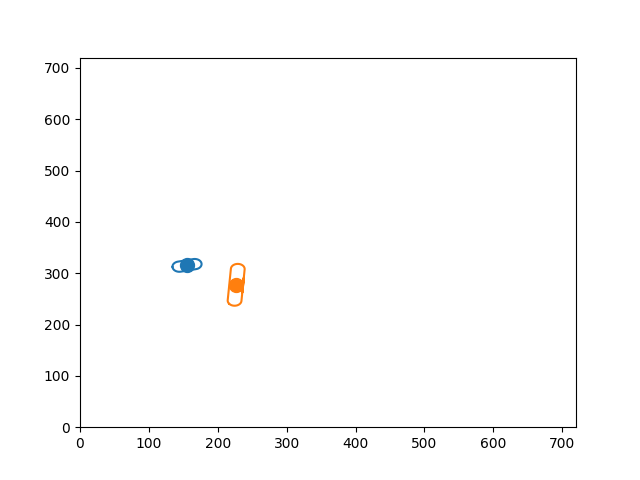
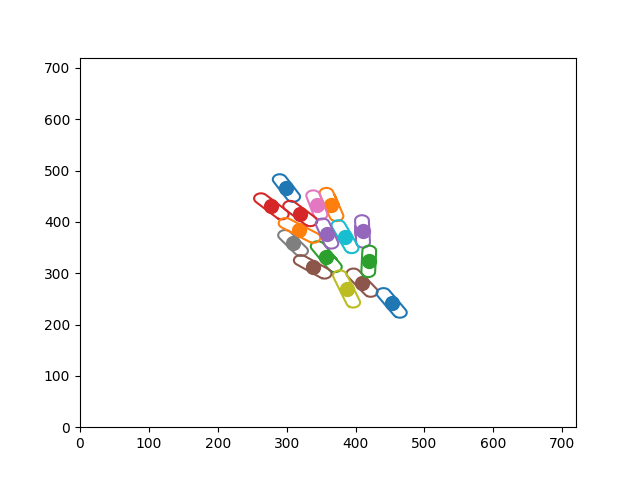
fixed cell class

Changed region(s): [[0.375, 0.375, 0.6562, 0.6562], [0.3438, 0.5312, 0.4062, 0.6562], [0.25, 0.5312, 0.3125, 0.5938]]

diff --git a/SYMPTOMM/cell.py b/SYMPTOMM/cell.py
@@ -16,7 +16,7 @@ class Cell:
         dt,
         growth_rate_constant,
         max_length_mean,
-        max_length_var
+        max_length_var,
     ):
         self.length = length
         self.width = width
@@ -33,7 +33,38 @@ class Cell:
 
 
     def create_pm_cell(self):
-        if self.is_dividing() == False:
+        if self.is_dividing() == True:
+            new_length = self.length/2
+            daughter_length = self.length - new_length
+            self.length = new_length
+            cell_vertices = self.calculate_vertex_list()
+            cell_shape = pymunk.Poly(None, cell_vertices)
+            self.shape = cell_shape
+            cell_moment = 1
+            cell_mass = 0.00001
+            cell_body = pymunk.Body(cell_mass,cell_moment)
+            cell_shape.body = cell_body
+            self.body = cell_body
+            new_x = self.position[0] + self.length/2 * np.cos(self.angle*2)
+            new_y = self.position[1] + self.length/2 * np.sin(self.angle*2)
+            self.body.position = [new_x, new_y]
+            cell_body.angle = self.angle
+            cell_shape.friction=1000
+            self.space.add(cell_body, cell_shape)
+            daughter_details = {
+                "length": daughter_length,
+                "width": self.width,
+                "resolution": self.resolution,
+                "position": [self.position[0] - self.length/2 * np.cos(self.angle*2), self.position[1] - self.length/2 * np.sin(self.angle*2)],
+                "angle": self.angle*np.random.uniform(0.85,1.15),
+                "space": self.space,
+                "dt": self.dt,
+                "growth_rate_constant": self.growth_rate_constant,
+                "max_length_mean": self.max_length_mean,
+                "max_length_var": self.max_length_var
+            }
+            return daughter_details
+        else:
             cell_vertices = self.calculate_vertex_list()
             cell_shape = pymunk.Poly(None, cell_vertices)
             self.shape = cell_shape
@@ -47,10 +78,8 @@ class Cell:
             cell_shape.friction=1000
             self.space.add(cell_body, cell_shape)
             return cell_body, cell_shape
-        if self.is_dividing() == True:
-            
 
-    def is_dividing(self):
+    def is_dividing(self): # This needs to be made constant or a cell can divide in one frame and not another frame
         if self.length > np.random.normal(self.max_length_mean, self.max_length_var):
             return True
         else:
@@ -58,7 +87,7 @@ class Cell:
 
 
     def update_length(self):
-        self.length = self.length + self.growth_rate_constant*self.dt*self.length
+        self.length = self.length + self.growth_rate_constant*self.dt*self.length*np.random.uniform(0.01,2)
 
     def update_position(self):
         self.position = self.body.position
@@ -77,7 +106,7 @@ class Cell:
     def get_vertex_list(self):
         vertices = []
         for v in self.shape.get_vertices():
-            x,y = v.rotated(self.shape.body.angle) + self.shape.body.position
+            x,y = v.rotated(self.shape.body.angle) + self.shape.body.position #.rotated(self.shape.body.angle)
             vertices.append((x,y))
         return vertices
 

diff --git a/SYMPTOMM/scene_functions.py b/SYMPTOMM/scene_functions.py
@@ -11,40 +11,6 @@ from cell_class_test import Cell
 import time
 space = pymunk.Space()
 
-dt = 1/60
-cells = []
-#%%
-# Initialise space
-cell1 = Cell(
-    length = 40, 
-    width = 20, 
-    resolution = 20, 
-    position = (720/2,720/2), 
-    angle = np.pi/3, 
-    space = space,
-    dt = 1/60,
-    growth_rate_constant = 1,
-    max_length_mean = 80,
-    max_length_var = 0,
-)
-
-cell2 = Cell(
-    length = 40,
-    width = 18,
-    resolution = 20,
-    position = (250,300),
-    angle = 3,
-    space = space,
-    dt = 1/60,
-    growth_rate_constant = 1,
-    max_length_mean = 80,
-    max_length_var = 1,
-)
-
-cells = [cell1]
-
-
-#%%
 
 def update_cell_lengths(cells):
     for cell in cells:
@@ -86,8 +52,6 @@ def step_and_update(dt, cells, space, phys_iters):
     update_cell_positions(cells)
 
 
-
-savedir = "/home/georgeos/Documents/GitHub/SYMPTOMM2/figures"
 def plot_scene(a, cells, savedir):
     if a%1 == 0:
         for cell in cells:
@@ -100,14 +64,3 @@ def plot_scene(a, cells, savedir):
         plt.xlim(0,720)
         plt.savefig(savedir+"/image_{}.png".format(str(a).zfill(3)))
         plt.clf()
-
-
-
-# %%
-for x in range(400):
-    plot_scene(x, cells)
-    step_and_update(dt, cells, space, 5)
-    #print(cells[0].position)
-    #print(cells[0].get_angle())
-    
-# %%
